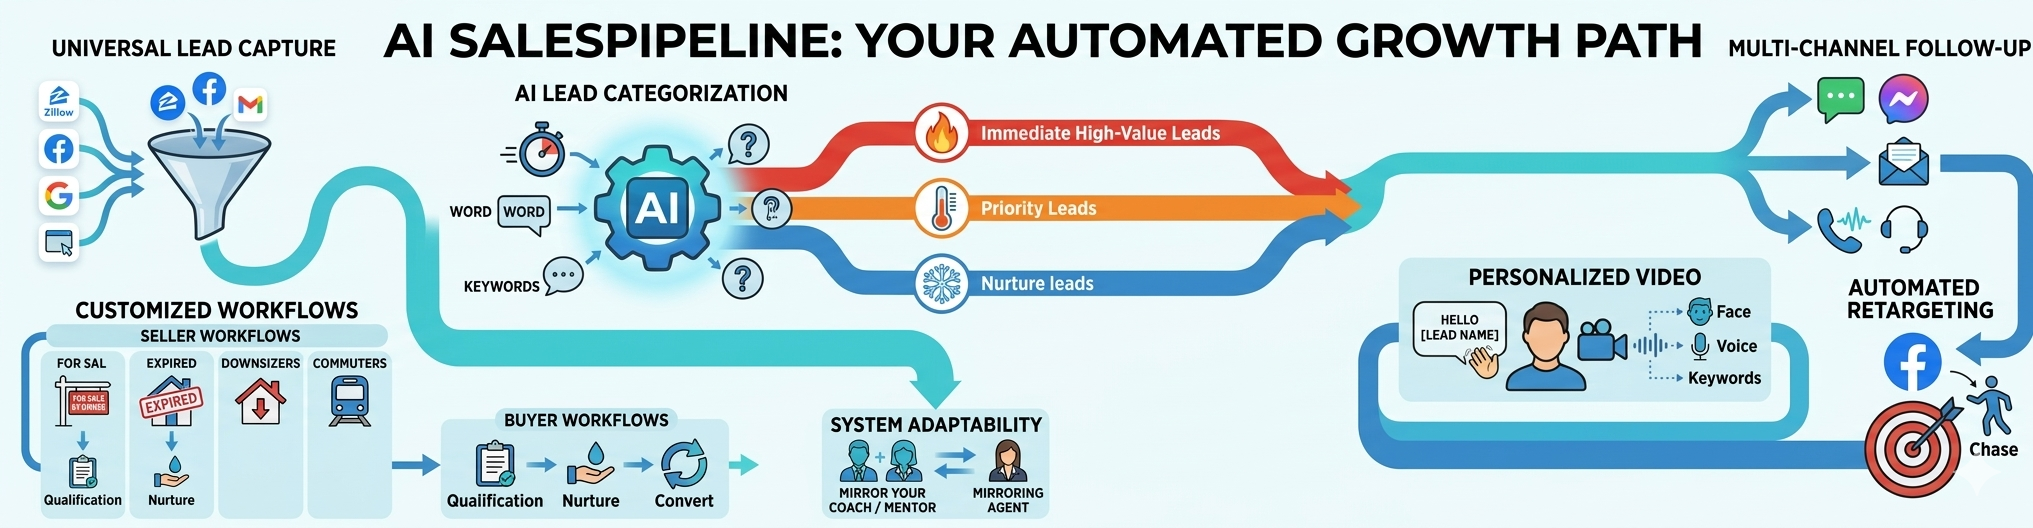
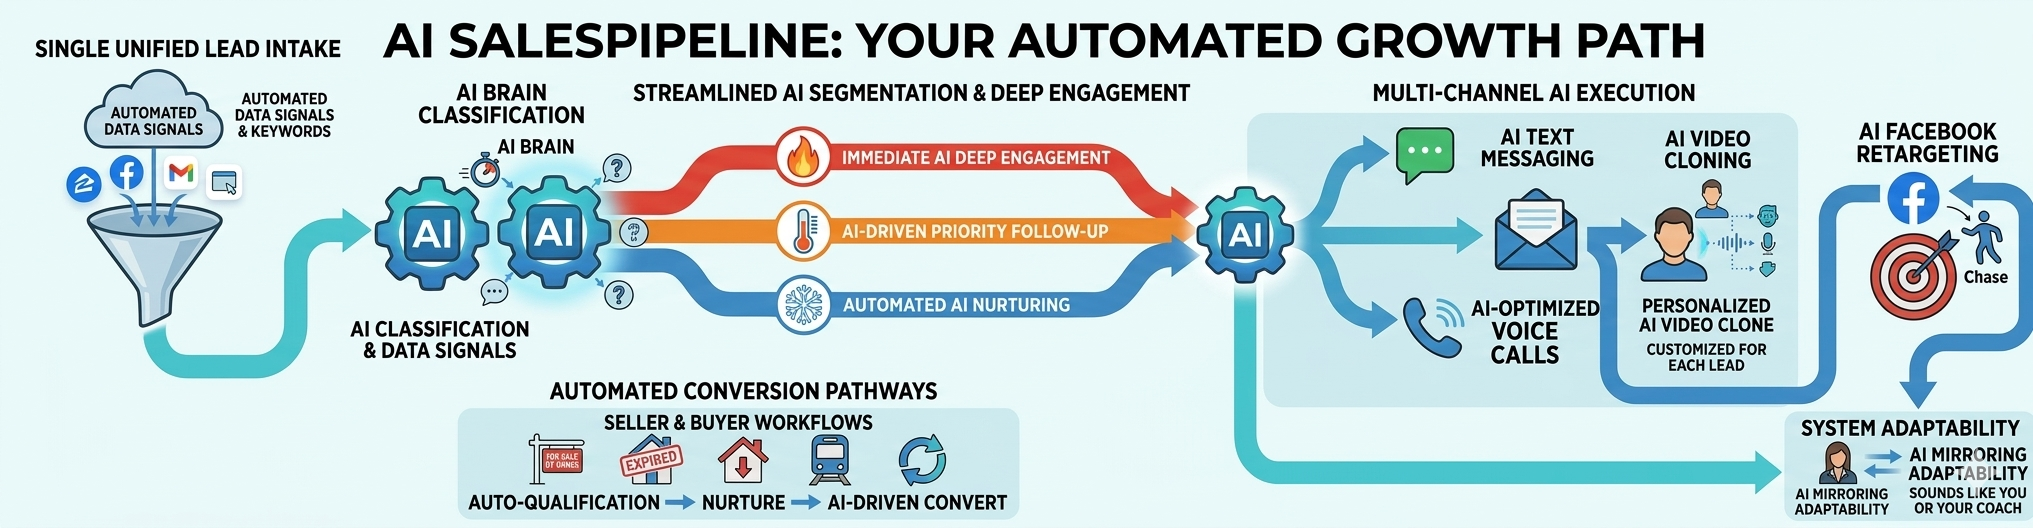
Update infographic image + zoom-from-center animation

diff --git a/index.html b/index.html
@@ -1186,7 +1186,7 @@
                 <img src="images/infographic-new.png" 
                      alt="AI Sales Pipeline System" 
                      id="infographic-main"
-                     style="width: 100%; height: auto; border-radius: 16px; transform: scaleY(0); transform-origin: top center; opacity: 0; transition: transform 1.4s cubic-bezier(0.34, 1.56, 0.64, 1), opacity 0.8s ease; box-shadow: 0 0 0 rgba(255,107,53,0);">
+                     style="width: 100%; height: auto; border-radius: 16px; transform: scale(0.2); opacity: 0; transition: transform 1.0s cubic-bezier(0.34, 1.56, 0.64, 1), opacity 0.6s ease; box-shadow: 0 0 0 rgba(255,107,53,0);">
             </div>
         </section>
         <script>
@@ -1198,7 +1198,7 @@
                     entries.forEach(function(entry) {
                         if (entry.isIntersecting) {
                             setTimeout(function() {
-                                img.style.transform = 'scaleY(1)';
+                                img.style.transform = 'scale(1)';
                                 img.style.opacity = '1';
                                 img.style.boxShadow = '0 20px 80px rgba(255,107,53,0.3)';
                             }, 100);
